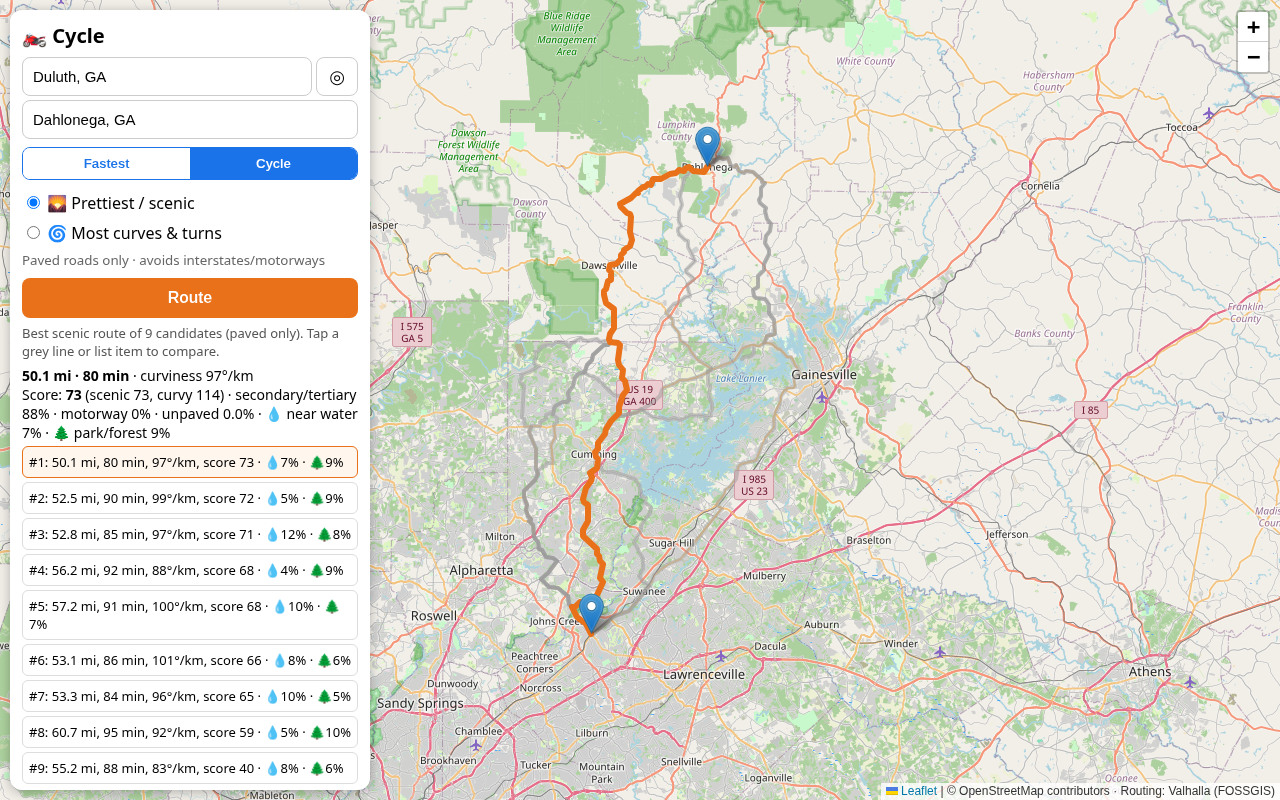
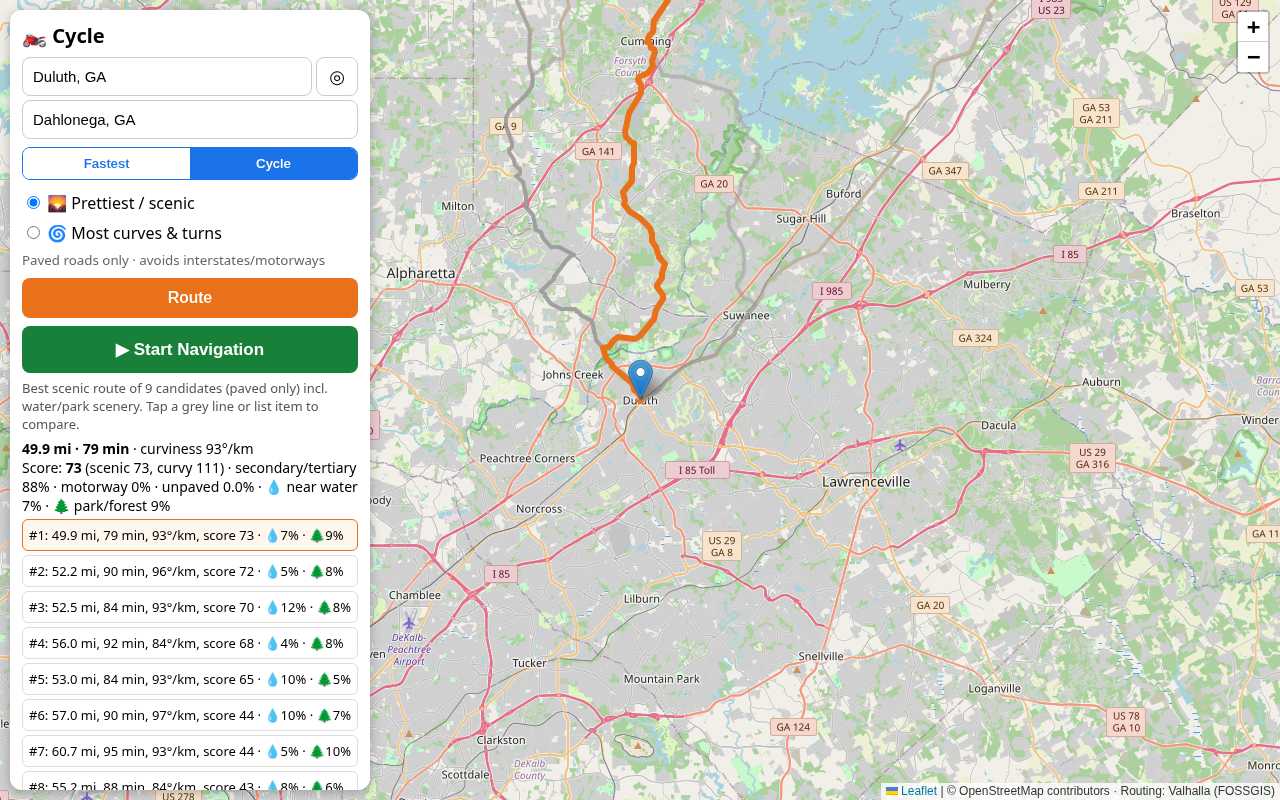
Nav: North Up/Perspective (MapLibre), route from current location, trimmed remaining line; faster progressive route search

diff --git a/nav.js b/nav.js
@@ -10,20 +10,38 @@ function snap(r,p,hint){const proj=(i)=>{const a=r.pts[i],b=r.pts[i+1],kx=111320
 const lc=t=>t.charAt(0).toLowerCase()+t.slice(1);
 function say(t){if(S&&S.muted||!window.speechSynthesis)return;try{speechSynthesis.cancel();const u=new SpeechSynthesisUtterance(t);u.rate=1.05;speechSynthesis.speak(u)}catch(e){}window.lastSpoken=t}
 function msg(t,ms=3000){const m=$('navmsg');m.textContent=t;m.style.display='block';clearTimeout(msg.t);msg.t=setTimeout(()=>m.style.display='none',ms)}
-function load(r){S.r=prep(r);S.hint=0;S.step=1;S.spoken={};S.off=0;if(S.line)map.removeLayer(S.line);S.line=L.polyline(S.r.pts,{color:'#1a73e8',weight:8,opacity:.85}).addTo(map)}
-async function start(sim){const cr=window.curRoute;if(!cr)return;S={mode:cr.mode,dest:cr.dest||cr.c.pts[cr.c.pts.length-1],muted:false,sim,start:Date.now(),reroutes:0};
- document.body.classList.add('navigating');$('nav').hidden=false;layers.clearLayers();load(cr.c);
- S.marker=L.marker(S.r.pts[0],{icon:L.divIcon({className:'rider',html:'<div><svg viewBox="0 0 34 34"><circle cx="17" cy="17" r="15" fill="#1a73e8" stroke="#fff" stroke-width="3"/><path d="M17 6 L25 25 L17 20 L9 25 Z" fill="#fff"/></svg></div>',iconSize:[34,34]}),zIndexOffset:1000}).addTo(map);
- map.setView(S.r.pts[0],17);try{S.wake=await navigator.wakeLock?.request('screen')}catch(e){}
+const VIEWKEY='cycle.navView';let view=localStorage.getItem(VIEWKEY)||'north';
+function setLine(coords){const src=S.gl&&S.gl.getSource('rem');const g={type:'Feature',geometry:{type:'LineString',coordinates:coords.map(p=>[p[1],p[0]])}};if(src)src.setData(g);else S.pendingLine=g}
+function load(r){S.r=prep(r);S.hint=0;S.step=1;S.spoken={};S.off=0;setLine(S.r.pts)}
+function cam(){const h=S.gl.getContainer().clientHeight;return{pitch:view==='persp'?60:0,bearing:view==='persp'?(S.brg||0):0,zoom:view==='persp'?17.5:16.5,padding:view==='persp'?{top:Math.round(h*0.45),bottom:0,left:0,right:0}:{top:0,bottom:0,left:0,right:0}}}
+function applyView(anim=true){$('navview').textContent=view==='persp'?'🛣 Perspective':'🧭 North Up';if(!S||!S.gl)return;S.gl.easeTo({...cam(),duration:anim?600:0})}
+function makeGL(p){const gl=new maplibregl.Map({container:'navmap',style:{version:8,sources:{osm:{type:'raster',tiles:['https://tile.openstreetmap.org/{z}/{x}/{y}.png'],tileSize:256,maxzoom:19,attribution:'© OpenStreetMap contributors'}},layers:[{id:'osm',type:'raster',source:'osm'}]},center:[p[1],p[0]],zoom:16.5,attributionControl:{compact:true},maxPitch:70,fadeDuration:0});
+ gl.on('load',()=>{gl.addSource('rem',{type:'geojson',data:S.pendingLine||{type:'Feature',geometry:{type:'LineString',coordinates:[]}}});
+  gl.addLayer({id:'remcase',type:'line',source:'rem',paint:{'line-color':'#0d47a1','line-width':12,'line-opacity':.5},layout:{'line-cap':'round','line-join':'round'}});
+  gl.addLayer({id:'remline',type:'line',source:'rem',paint:{'line-color':'#1a73e8','line-width':8},layout:{'line-cap':'round','line-join':'round'}});S.glReady=true;applyView(false)});
+ const el=document.createElement('div');el.className='rider2';el.innerHTML='<svg viewBox="0 0 40 40" width="40" height="40"><circle cx="20" cy="20" r="17" fill="#1a73e8" stroke="#fff" stroke-width="3"/><path d="M20 7 L29 29 L20 23 L11 29 Z" fill="#fff"/></svg>';
+ S.rider=new maplibregl.Marker({element:el,rotationAlignment:'map',pitchAlignment:'map'}).setLngLat([p[1],p[0]]).addTo(gl);return gl}
+function angLerp(a,b,t){let d=((b-a+540)%360)-180;return (a+d*t+360)%360}
+async function start(sim){const cr=window.curRoute;if(!cr)return;S={mode:cr.mode,dest:cr.dest||cr.c.pts[cr.c.pts.length-1],muted:false,sim,start:Date.now(),reroutes:0,brg:0};
+ document.body.classList.add('navigating');$('nav').hidden=false;load(cr.c);
+ // Begin from the rider's actual location: if GPS is away from the planned start, route from here first
+ let here=null;try{msg('Getting your location…');here=await getHere(sim?3000:12000)}catch(e){if(!sim)msg(e.message+' — using planned start',4000)}
+ if(here&&D(here,S.r.pts[0])>100){msg('Routing from your location…');try{const m=S.mode==='fast'?'fast':S.mode;const [t]=await Cycle.route([here,S.dest],m,0);load(Cycle.tripInfo(t));S.fromHere=true}catch(e){msg('Could not route from here: '+e.message,4000)}}
+ const p0=here||S.r.pts[0];S.gl=makeGL(p0);S.brg=Cycle.bearing(S.r.pts[0],S.r.pts[Math.min(3,S.r.pts.length-1)]);if(sim&&here)S.simStart=here;try{S.wake=await navigator.wakeLock?.request('screen')}catch(e){}
  const m0=S.r.man[0];say(m0?m0.verbal_pre_transition_instruction||m0.instruction:'Starting navigation');
  if(sim)simulate();else S.watch=navigator.geolocation.watchPosition(onPos,e=>msg('GPS: '+e.message,5000),{enableHighAccuracy:true,maximumAge:1000,timeout:15000})}
-function end(){if(!S)return;if(S.watch!=null)navigator.geolocation.clearWatch(S.watch);clearInterval(S.simT);S.wake?.release?.();S.marker&&map.removeLayer(S.marker);S.line&&map.removeLayer(S.line);try{speechSynthesis.cancel()}catch(e){}
- S=null;$('nav').hidden=true;document.body.classList.remove('navigating');window.curRoute&&L.polyline(window.curRoute.c.pts,{color:'#e8711a',weight:6}).addTo(layers)}
+function end(){if(!S)return;if(S.watch!=null)navigator.geolocation.clearWatch(S.watch);clearInterval(S.simT);S.wake?.release?.();try{S.gl&&S.gl.remove()}catch(e){}try{speechSynthesis.cancel()}catch(e){}
+ S=null;$('nav').hidden=true;document.body.classList.remove('navigating');setTimeout(()=>map.invalidateSize(),50)}
 async function reroute(p){if(S.rerouting)return;S.rerouting=true;msg('Off route — rerouting…');say('Rerouting');
  try{const m=S.mode==='fast'?'fast':S.mode;const [t]=await Cycle.route([p,S.dest],m,0);load(Cycle.tripInfo(t));S.reroutes++;S.simDetourStop=1;msg('New route: '+fmt(S.r.total));if(S.sim)S.simRoute=S.r}catch(e){msg('Reroute failed: '+e.message,5000)}S.rerouting=false}
 function onPos(pos){if(!S)return;const p=[pos.coords.latitude,pos.coords.longitude],spd=pos.coords.speed,acc=pos.coords.accuracy||10;const r=S.r;const q=snap(r,p,S.hint);
- let hd=pos.coords.heading;if(hd==null||isNaN(hd))hd=S.prev?Cycle.bearing(S.prev,p):0;if(!S.prev||D(S.prev,p)>2)S.hd=hd;S.prev=p;
- S.marker.setLatLng(p);S.marker.getElement().firstChild.style.transform=`rotate(${S.hd||0}deg)`;map.setView(p,Math.max(map.getZoom(),17),{animate:true});
+ // heading: GPS heading when moving, else route bearing (on route) or movement bearing
+ let hd=pos.coords.heading;const moving=spd==null||spd>1.5;if(hd==null||isNaN(hd)||!moving){if(q.d<=60){const j=Math.min(q.i+3,r.pts.length-1);hd=Cycle.bearing(r.pts[q.i],r.pts[j===q.i?q.i+1:j])}else if(S.prev&&D(S.prev,p)>3)hd=Cycle.bearing(S.prev,p);else hd=S.brg}
+ S.brg=angLerp(S.brg,hd,0.5);S.prev=p;
+ if(S.rider){S.rider.setLngLat([p[1],p[0]]);S.rider.setRotation(S.brg)}
+ if(S.gl&&S.glReady)S.gl.easeTo({...cam(),center:[p[1],p[0]],duration:S.sim?450:900,easing:t=>t});
+ // remaining line: from actual GPS point -> snapped point -> rest of route
+ if(q.d<=60){const sp=[r.pts[q.i][0]+(r.pts[q.i+1][0]-r.pts[q.i][0])*q.t,r.pts[q.i][1]+(r.pts[q.i+1][1]-r.pts[q.i][1])*q.t];setLine([p,sp,...r.pts.slice(q.i+1)])}else setLine([p,...r.pts.slice(Math.max(q.i,0))]);
  $('navspd').textContent=spd!=null&&!isNaN(spd)?Math.round(spd*2.237):'–';
  if(q.d>Math.max(60,acc)){S.off++;if(S.off>=3)reroute(p);return}S.off=0;S.hint=q.i;const prog=q.along;
  while(S.step<r.man.length-1&&r.cum[r.man[S.step].idx]<prog+8)S.step++;const nm=r.man[S.step],toM=r.cum[nm.idx]-prog;
@@ -34,11 +52,12 @@ function onPos(pos){if(!S)return;const p=[pos.coords.latitude,pos.coords.longitu
  if(S.step===r.man.length-1&&toM<30){say('You have arrived');msg('Arrived 🏁',6000);setTimeout(end,4000)}}
 // --- simulation: drives along current route at ~45 mph; navSim.offRoute() forces a detour
 function simulate(){S.simRoute=S.r;let along=0,detour=0;const v=20,dt=0.5;window.navSim={offRoute:()=>{detour=1},speedup:x=>S.simMul=x};
- S.simT=setInterval(()=>{if(!S)return;const r=S.r;if(r!==S.lastSim){along=S.lastSim?snap(r,S.prevSim,0).along:0;S.lastSim=r}
+ S.simT=setInterval(()=>{if(!S)return;const r=S.r;if(r!==S.lastSim){along=S.lastSim&&S.prevSim?snap(r,S.prevSim,0).along:0;S.lastSim=r}
   along+=v*dt*(S.simMul||1);let i=0;while(i<r.cum.length-2&&r.cum[i+1]<along)i++;const t=(along-r.cum[i])/((r.cum[i+1]-r.cum[i])||1),a=r.pts[i],b=r.pts[i+1];
   let p=[a[0]+(b[0]-a[0])*Math.min(1,t),a[1]+(b[1]-a[1])*Math.min(1,t)];if(detour){p=[p[0]+0.0012*Math.min(detour,4),p[1]+0.0012*Math.min(detour,4)];detour++;if(detour>8||S.simDetourStop){detour=0;S.simDetourStop=0}}
   S.prevSim=p;onPos({coords:{latitude:p[0],longitude:p[1],speed:v*(S.simMul||1),heading:null,accuracy:5}})},dt*1000)}
 $('navbtn').onclick=()=>start(false);$('simbtn').onclick=()=>start(true);$('navend').onclick=end;
+$('navview').onclick=()=>{view=view==='persp'?'north':'persp';localStorage.setItem(VIEWKEY,view);applyView()};$('navview').textContent=view==='persp'?'🛣 Perspective':'🧭 North Up';
 $('navmute').onclick=()=>{S.muted=!S.muted;$('navmute').textContent=S.muted?'🔇':'🔊';if(S.muted)speechSynthesis.cancel()};
 if(/[?&]sim=1/.test(location.search))$('simbtn').hidden=false;
 const ob=new MutationObserver(()=>{if(!$('navbtn').hidden&&/[?&]sim=1/.test(location.search))$('simbtn').hidden=false});ob.observe($('navbtn'),{attributes:true});

diff --git a/routing.js b/routing.js
@@ -24,9 +24,10 @@ function cacheCover(bb){cacheGet('__init');const keys=new Set([...Object.keys(me
  for(const k of keys){const b=k.split(',').map(Number);if(b.length===4&&b[0]<=bb[0]&&b[1]<=bb[1]&&b[2]>=bb[2]&&b[3]>=bb[3])return cacheGet(k)}return null}
 async function scenery(bb,log=()=>{}){const k=bb.join(',');const c=cacheCover(bb);if(c){log('Scenery: cached');return c}
  const B=`(${bb.join(',')})`;const q=`[out:json][timeout:60];(way["natural"="water"]["name"]${B};relation["natural"="water"]${B};way["water"~"^(lake|reservoir|river)$"]${B};way["waterway"="river"]${B};way["natural"="coastline"]${B};way["leisure"="nature_reserve"]${B};relation["leisure"="nature_reserve"]${B};way["leisure"="park"]["name"]${B};relation["leisure"="park"]${B};relation["boundary"~"^(national_park|protected_area)$"]${B};way["boundary"~"^(national_park|protected_area)$"]${B};relation["landuse"="forest"]["name"]${B};);out tags geom(${bb.join(',')}) qt;`;
- let lastErr;for(const m of MIRRORS){try{log('Scenery: querying '+new URL(m).host+'…');const r=await fetchT(m,{method:'POST',headers:{'Content-Type':'application/x-www-form-urlencoded'},body:'data='+encodeURIComponent(q)},75000);
-  if(!r.ok)throw Error('HTTP '+r.status);const j=await r.json();const out=parseScenery(j);out.src=new URL(m).host;cacheSet(k,out);return out}catch(e){lastErr=e}}
- throw Error('Overpass unavailable ('+(lastErr&&lastErr.message)+')')}
+ log('Scenery: querying '+MIRRORS.length+' Overpass mirrors in parallel…');const ctrls=MIRRORS.map(()=>new AbortController());
+ try{const out=await Promise.any(MIRRORS.map(async(m,ix)=>{const t=setTimeout(()=>ctrls[ix].abort(),30000);try{const r=await fetch(m,{method:'POST',headers:{'Content-Type':'application/x-www-form-urlencoded'},body:'data='+encodeURIComponent(q),signal:ctrls[ix].signal});
+   if(!r.ok)throw Error('HTTP '+r.status);const j=await r.json();const o=parseScenery(j);o.src=new URL(m).host;return o}finally{clearTimeout(t)}}));
+  ctrls.forEach(c=>c.abort());cacheSet(k,out);return out}catch(e){throw Error('Overpass unavailable ('+((e.errors||[]).map(x=>x.message).join(', ')||e.message)+')')}}
 function parseScenery(j){const water=[],park=[];const q=x=>Math.round(x*1e5)/1e5;
  const segs=(g,arr)=>{if(!g)return;for(let i=1;i<g.length;i++)if(g[i-1]&&g[i])arr.push([q(g[i-1].lat),q(g[i-1].lon),q(g[i].lat),q(g[i].lon)])};
  for(const e of j.elements||[]){const t=e.tags||{};const isW=t.natural==='water'||t.waterway||t.natural==='coastline'||t.water;const arr=isW?water:park;
@@ -50,7 +51,15 @@ function prepScenery(sc){if(sc._prep)return sc._prep;const W=grid(sc.water);cons
 function sceneryStats(pts,sc,waterKm=0.4,parkKm=0.3){const {W,P,boxes}=prepScenery(sc);const samp=[pts[0]];let acc=0;for(let i=1;i<pts.length;i++){acc+=dist(pts[i-1],pts[i]);if(acc>=0.2){samp.push(pts[i]);acc=0}}
  let w=0,pk=0;for(const p of samp){if(near(W,p,waterKm))w++;let inP=near(P,p,parkKm);if(!inP)for(let j=0;j<boxes.length&&!inP;j++){const b=boxes[j];if(p[0]>=b[0]&&p[0]<=b[2]&&p[1]>=b[1]&&p[1]<=b[3]&&inside(sc.parks[j],p))inP=true}if(inP)pk++}
  return{water:w/samp.length,park:pk/samp.length,n:samp.length}}
-async function post(path,body){const r=await fetch(VAL+path,{method:'POST',headers:{'Content-Type':'application/json'},body:JSON.stringify(body)});const j=await r.json();if(!r.ok)throw new Error(j.error||r.status);return j}
+const RC={};let active=0;const queue=[];
+function slot(){return new Promise(r=>{if(active<3){active++;r()}else queue.push(r)})}function release(){const n=queue.shift();if(n)n();else active--}
+function rcGet(k){if(RC[k])return RC[k];try{const v=typeof localStorage!=='undefined'&&localStorage.getItem('vrc:'+k);if(v)return RC[k]=JSON.parse(v)}catch(e){}return null}
+function rcSet(k,v){RC[k]=v;try{if(typeof localStorage!=='undefined'){const s=JSON.stringify(v);if(s.length<1.5e6)localStorage.setItem('vrc:'+k,s)}}catch(e){try{for(let i=localStorage.length-1;i>=0;i--){const x=localStorage.key(i);if(x&&x.startsWith('vrc:'))localStorage.removeItem(x)}}catch(_){}}}
+function hash(str){let h=5381;for(let i=0;i<str.length;i++)h=(h*33^str.charCodeAt(i))>>>0;return h.toString(36)+str.length}
+async function post(path,body){const key=hash(path+JSON.stringify(body));const c=rcGet(key);if(c)return c;let err;
+ for(let a=0;a<4;a++){await slot();let r,j;try{r=await fetch(VAL+path,{method:'POST',headers:{'Content-Type':'application/json'},body:JSON.stringify(body)});j=await r.json().catch(()=>({}))}catch(e){err=e}finally{release()}
+  if(r&&r.ok){rcSet(key,j);return j}if(r&&r.status<500&&r.status!==429)throw new Error(j.error||r.status);err=err||Error(r?'HTTP '+r.status:'network');await new Promise(z=>setTimeout(z,600*2**a))}throw err}
+async function post_unused(path,body){const r=await fetch(VAL+path,{method:'POST',headers:{'Content-Type':'application/json'},body:JSON.stringify(body)});const j=await r.json();if(!r.ok)throw new Error(j.error||r.status);return j}
 function costing(mode){const o={use_trails:0.0,exclude_unpaved:true,use_tolls:0.5};
  if(mode!=='fast'){o.use_highways=0.0;o.use_primary=mode==='curvy'?0.1:0.3;o.use_living_streets=0.1}else{o.use_highways=1.0}return{motorcycle:o}}
 async function route(locs,mode,alts){const b={locations:locs.map(p=>({lat:p[0],lon:p[1],type:'break'})),costing:'motorcycle',costing_options:costing(mode),directions_options:{units:'miles'}};
@@ -69,15 +78,21 @@ function score(info,a,mode,baseMin){const c=info.curv.degPerKm;const detour=Math
 // Via-point variations: offsets perpendicular to the straight line
 function vias(A,B){const m=[(A[0]+B[0])/2,(A[1]+B[1])/2],dx=B[1]-A[1],dy=B[0]-A[0],out=[];
  for(const [t,k] of [[0.5,0.15],[0.5,-0.15],[0.5,0.3],[0.5,-0.3],[0.33,0.2],[0.66,-0.2]]){const p=[A[0]+dy*t,A[1]+dx*t];out.push([p[0]+dx*k,p[1]-dy*k])}return out}
-async function plan(A,B,mode,log=()=>{}){
- if(mode==='fast'){const [t]=await route([A,B],'fast',0);const i=tripInfo(t);i.curv=curvature(i.pts);return{best:i,cands:[i]}}
- log('Fetching base routes…');const trips=await route([A,B],mode,2);
- const vs=vias(A,B);log('Trying '+vs.length+' via-point variations…');
- const res=await Promise.allSettled(vs.map(v=>route([A,v,B],mode,0)));res.forEach(r=>r.status==='fulfilled'&&trips.push(r.value[0]));
- const cands=trips.map(tripInfo);cands.forEach((c,i)=>{c.trip=trips[i];c.curv=curvature(c.pts)});
- const baseMin=Math.min(...cands.map(c=>c.min));log('Scoring '+cands.length+' candidates (road class + surface)…');
- for(const c of cands){for(let k=0;k<3&&!c.attrs;k++){try{c.attrs=await attrs(c.trip)}catch(e){await new Promise(r=>setTimeout(r,800*(k+1)))}}c.attrs=c.attrs||{tot:0,unpavedFrac:0,motorway:0,primary:0,sec:0,minor:0,err:1}}
- if(mode==='scenic'){try{const sc=await scenery(bboxOf(cands),log);cands.forEach(c=>c.nature=sceneryStats(c.pts,sc));cands.sceneSrc=sc.src||'cache'}catch(e){log('Scenery unavailable: '+e.message);cands.sceneErr=e.message}}
- cands.forEach(c=>c.score=score(c,c.attrs,mode,baseMin));cands.sort((a,b)=>b.score.total-a.score.total);return{best:cands[0],cands,sceneErr:cands.sceneErr}}
+const ZA={tot:0,unpavedFrac:0,motorway:0,primary:0,sec:0,minor:0};
+async function plan(A,B,mode,log=()=>{},onUpdate=()=>{}){
+ if(mode==='fast'){const [t]=await route([A,B],'fast',0);const i=tripInfo(t);i.curv=curvature(i.pts);onUpdate({best:i,cands:[i]});return{best:i,cands:[i]}}
+ const cands=[];let baseMin=Infinity,sc=null;const add=t=>{const c=tripInfo(t);c.trip=t;c.curv=curvature(c.pts);c.attrs=null;cands.push(c);baseMin=Math.min(baseMin,c.min);return c};
+ const rescore=()=>{cands.forEach(c=>{if(sc)c.nature=sceneryStats(c.pts,sc);c.score=score(c,c.attrs||ZA,mode,baseMin)});cands.sort((a,b)=>(b.attrs?1:0)-(a.attrs?1:0)||b.score.total-a.score.total);return{best:cands[0],cands,sceneErr:cands.sceneErr}};
+ log('Fetching routes…');
+ const basePromise=route([A,B],mode,2).then(ts=>{ts.forEach(add);onUpdate({...rescore(),partial:true})});
+ const viaPromise=Promise.allSettled(vias(A,B).map(v=>route([A,v,B],mode,0).then(([t])=>add(t))));
+ await basePromise;await viaPromise;log('Scoring '+cands.length+' candidates…');
+ // scenery in background (only needed for scenic), starts once geometry is known
+ let sceneP=null;if(mode==='scenic')sceneP=scenery(bboxOf(cands),log).then(x=>{sc=x;cands.sceneSrc=x.src}).catch(e=>{cands.sceneErr=e.message;log('Scenery unavailable: '+e.message)});
+ // prefilter: road-class detail (trace_attributes) only for top 5 by curvature/detour
+ const pre=c=>(mode==='curvy'?c.curv.degPerKm:0.5*Math.min(c.curv.degPerKm,80))-Math.max(0,c.min/baseMin-1.6)*60;
+ const top=[...cands].sort((a,b)=>pre(b)-pre(a)).slice(0,5);
+ await Promise.all(top.map(async c=>{try{c.attrs=await attrs(c.trip)}catch(e){c.attrs={...ZA,err:1}}onUpdate({...rescore(),partial:true})}));
+ const res=rescore();res.scenery=sceneP?sceneP.then(()=>rescore()):null;return res}
 G.Cycle={dist,bearing,scenery,sceneryStats,bboxOf,decode,curvature,route,attrs,plan,tripInfo,VAL};if(typeof module!=='undefined')module.exports=G.Cycle;
 })(typeof window!=='undefined'?window:globalThis);

diff --git a/app.js b/app.js
@@ -8,16 +8,21 @@ function setupSearch(k){const inp=$(k),box=$(k+'-s');inp.onblur=()=>setTimeout((
  const r=await fetch('https://nominatim.openstreetmap.org/search?format=json&limit=5&countrycodes=us&q='+encodeURIComponent(inp.value));const j=await r.json();if(my!==seq[k]||document.activeElement!==inp)return;box.innerHTML='';
  j.forEach(p=>{const d=document.createElement('div');d.textContent=p.display_name;d.onclick=()=>{inp.value=p.display_name;box.innerHTML='';setPt(k,[+p.lat,+p.lon])};box.appendChild(d)})},450)}}
 function setPt(k,ll){pts[k]=ll;markers[k]&&map.removeLayer(markers[k]);markers[k]=L.marker(ll,{title:k}).addTo(map);map.setView(ll,11)}
-async function geocode(k){if(pts[k])return pts[k];const r=await fetch('https://nominatim.openstreetmap.org/search?format=json&limit=1&q='+encodeURIComponent($(k).value));const j=await r.json();if(!j[0])throw Error('Not found: '+$(k).value);setPt(k,[+j[0].lat,+j[0].lon]);return pts[k]}
+window.getHere=(ms=12000)=>new Promise((ok,no)=>{const s=new URLSearchParams(location.search).get('simfrom');if(s)return ok(s.split(',').map(Number));if(!navigator.geolocation)return no(Error('No GPS'));navigator.geolocation.getCurrentPosition(p=>ok([p.coords.latitude,p.coords.longitude]),e=>no(Error('Location: '+e.message)),{enableHighAccuracy:true,timeout:ms,maximumAge:30000})});
+async function geocode(k){if(pts[k])return pts[k];if(k==='from'&&/^\s*(my location)?\s*$/i.test($(k).value)){st('Getting your location…');const h=await getHere();$(k).value='My location';setPt(k,h);return h}const r=await fetch('https://nominatim.openstreetmap.org/search?format=json&limit=1&q='+encodeURIComponent($(k).value));const j=await r.json();if(!j[0])throw Error('Not found: '+$(k).value);setPt(k,[+j[0].lat,+j[0].lon]);return pts[k]}
 setupSearch('from');setupSearch('to');
 $('gps').onclick=()=>navigator.geolocation.getCurrentPosition(p=>{$('from').value='My location';setPt('from',[p.coords.latitude,p.coords.longitude])},e=>alert(e.message));
 const st=s=>$('status').textContent=s;
-function show(c,all){window.curRoute={c,mode:window.lastMode||'fast',dest:pts.to};$('navbtn').hidden=false;layers.clearLayers();(all||[]).forEach(o=>o!==c&&L.polyline(o.pts,{color:'#999',weight:4,opacity:.5}).on('click',()=>show(o,all)).addTo(layers));
- const line=L.polyline(c.pts,{color:mode==='fast'?'#1a73e8':'#e8711a',weight:6}).addTo(layers);map.fitBounds(line.getBounds(),{padding:[30,30]});
+function show(c,all,fit=true){window.curRoute={c,mode:window.lastMode||'fast',dest:pts.to};$('navbtn').hidden=false;layers.clearLayers();(all||[]).forEach(o=>o!==c&&L.polyline(o.pts,{color:'#999',weight:4,opacity:.5}).on('click',()=>show(o,all)).addTo(layers));
+ const line=L.polyline(c.pts,{color:mode==='fast'?'#1a73e8':'#e8711a',weight:6}).addTo(layers);if(fit)map.fitBounds(line.getBounds(),{padding:[30,30]});
  let h=`<b>${c.miles.toFixed(1)} mi · ${Math.round(c.min)} min</b> · curviness ${c.curv.degPerKm.toFixed(0)}°/km`;
- if(c.score){const a=c.attrs;h+=`<br>Score: <b>${c.score.total}</b> (scenic ${c.score.scenic}, curvy ${c.score.curvy}) · secondary/tertiary ${(a.sec*100|0)}% · motorway ${(a.motorway*100|0)}% · unpaved ${(a.unpavedFrac*100).toFixed(1)}%`+(c.nature?` · 💧 near water ${Math.round(c.nature.water*100)}% · 🌲 park/forest ${Math.round(c.nature.park*100)}%`:'');
+ if(c.score){const a=c.attrs||{sec:0,motorway:0,unpavedFrac:0,pending:1};h+=`<br>Score: <b>${c.score.total}</b> (scenic ${c.score.scenic}, curvy ${c.score.curvy}) · `+(a.pending?'road details pending…':`secondary/tertiary ${(a.sec*100|0)}% · motorway ${(a.motorway*100|0)}% · unpaved ${(a.unpavedFrac*100).toFixed(1)}%`)+(c.nature?` · 💧 near water ${Math.round(c.nature.water*100)}% · 🌲 park/forest ${Math.round(c.nature.park*100)}%`:'');
   h+=all.map((o,i)=>`<div class="cand ${o===c?'best':''}" data-i="${i}">#${i+1}: ${o.miles.toFixed(1)} mi, ${Math.round(o.min)} min, ${o.curv.degPerKm.toFixed(0)}°/km, score ${o.score.total}${o.nature?` · 💧${Math.round(o.nature.water*100)}% · 🌲${Math.round(o.nature.park*100)}%`:''}</div>`).join('')}
  $('summary').innerHTML=h;$('summary').querySelectorAll('.cand').forEach(d=>d.onclick=()=>show(all[d.dataset.i],all));
  $('steps').innerHTML=c.man.map(m=>`<li>${m.instruction}${m.length?` <small>${m.length.toFixed(1)} mi</small>`:''}</li>`).join('')}
 $('go').onclick=async()=>{closeSugg();try{st('Geocoding…');const A=await geocode('from'),B=await geocode('to');const m=mode==='fast'?'fast':document.querySelector('[name=style]:checked').value;window.lastMode=m;
- const r=await Cycle.plan(A,B,m,st);show(r.best,m==='fast'?null:r.cands);st(m==='fast'?'Fastest route':`Best ${m==='curvy'?'curvy':'scenic'} route of ${r.cands.length} candidates (paved only)${r.sceneErr?' — scenery data unavailable: '+r.sceneErr:''}. Tap a grey line or list item to compare.`)}catch(e){st('Error: '+e.message)}};
+ const tok=window.planTok=(window.planTok||0)+1;let shown=0;const label=r=>`Best ${m==='curvy'?'curvy':'scenic'} route of ${r.cands.length} candidates (paved only)`;
+ const r=await Cycle.plan(A,B,m,st,u=>{if(tok!==window.planTok||m==='fast')return;show(u.best,u.cands,!shown++);st(label(u)+' — refining…')});
+ if(tok!==window.planTok)return;show(r.best,m==='fast'?null:r.cands,!shown++);
+ if(m==='fast')st('Fastest route');else if(r.scenery){st(label(r)+' — loading scenery (water/parks)…');r.scenery.then(f=>{if(tok!==window.planTok||document.body.classList.contains('navigating'))return;show(f.best,f.cands,false);st(label(f)+(f.sceneErr?' — scenery unavailable: '+f.sceneErr:' incl. water/park scenery')+'. Tap a grey line or list item to compare.')})}
+ else st(label(r)+'. Tap a grey line or list item to compare.')}catch(e){st('Error: '+e.message)}};

diff --git a/index.html b/index.html
@@ -1,11 +1,11 @@
 <!doctype html><html><head><meta charset="utf-8"><meta name="viewport" content="width=device-width,initial-scale=1">
 <title>Cycle – Motorcycle Routes</title>
 <link rel="stylesheet" href="https://unpkg.com/leaflet@1.9.4/dist/leaflet.css">
-<link rel="stylesheet" href="style.css"></head><body>
+<link rel="stylesheet" href="https://unpkg.com/maplibre-gl@4.7.1/dist/maplibre-gl.css"><link rel="stylesheet" href="style.css"></head><body>
 <div id="map"></div>
 <div id="panel">
  <h1>🏍 Cycle</h1>
- <div class="field"><input id="from" placeholder="Start (e.g. Duluth, GA)" autocomplete="off"><button id="gps" title="Use my location">◎</button></div>
+ <div class="field"><input id="from" placeholder="Start (blank = my location)" autocomplete="off"><button id="gps" title="Use my location">◎</button></div>
  <div class="sugg" id="from-s"></div>
  <div class="field"><input id="to" placeholder="Destination" autocomplete="off"></div>
  <div class="sugg" id="to-s"></div>
@@ -21,7 +21,7 @@
  <div id="summary"></div>
  <ol id="steps"></ol>
 </div>
-<div id="nav" hidden><div id="navtop"><div id="navicon">⬆</div><div><div id="navdist">–</div><div id="navinstr">Starting…</div><div id="navthen"></div></div></div>
+<div id="nav" hidden><div id="navmap"></div><button id="navview">🧭 North Up</button><div id="navtop"><div id="navicon">⬆</div><div><div id="navdist">–</div><div id="navinstr">Starting…</div><div id="navthen"></div></div></div>
 <div id="navbot"><div><b id="navrem">–</b><small>remaining</small></div><div><b id="naveta">–</b><small>ETA</small></div><div><b id="navspd">–</b><small>mph</small></div><button id="navmute">🔊</button><button id="navend">End</button></div><div id="navmsg"></div></div>
 <script src="https://unpkg.com/leaflet@1.9.4/dist/leaflet.js"></script>
-<script src="routing.js"></script><script src="app.js"></script><script src="nav.js"></script></body></html>
+<script src="https://unpkg.com/maplibre-gl@4.7.1/dist/maplibre-gl.js"></script><script src="routing.js"></script><script src="app.js"></script><script src="nav.js"></script></body></html>

diff --git a/style.css b/style.css
@@ -23,3 +23,6 @@ body.navigating #panel{display:none}
 #navbot button{font-size:18px;padding:10px 14px;border-radius:10px;border:1px solid #ccc;background:#fff}#navend{background:#d93025!important;color:#fff;border:0!important;font-weight:700}
 #navmsg{position:fixed;z-index:1100;bottom:80px;left:50%;transform:translateX(-50%);background:#202124e0;color:#fff;padding:8px 14px;border-radius:18px;font-size:14px;display:none}
 .rider{width:34px;height:34px}.rider div{width:34px;height:34px;transition:transform .4s}
+#navmap{position:fixed;inset:0;z-index:1050;background:#eee}
+#navview{position:fixed;z-index:1100;right:12px;top:130px;padding:10px 12px;border-radius:20px;border:0;background:#fff;box-shadow:0 2px 8px #0005;font-weight:600;font-size:14px}
+.rider2{width:40px;height:40px}
